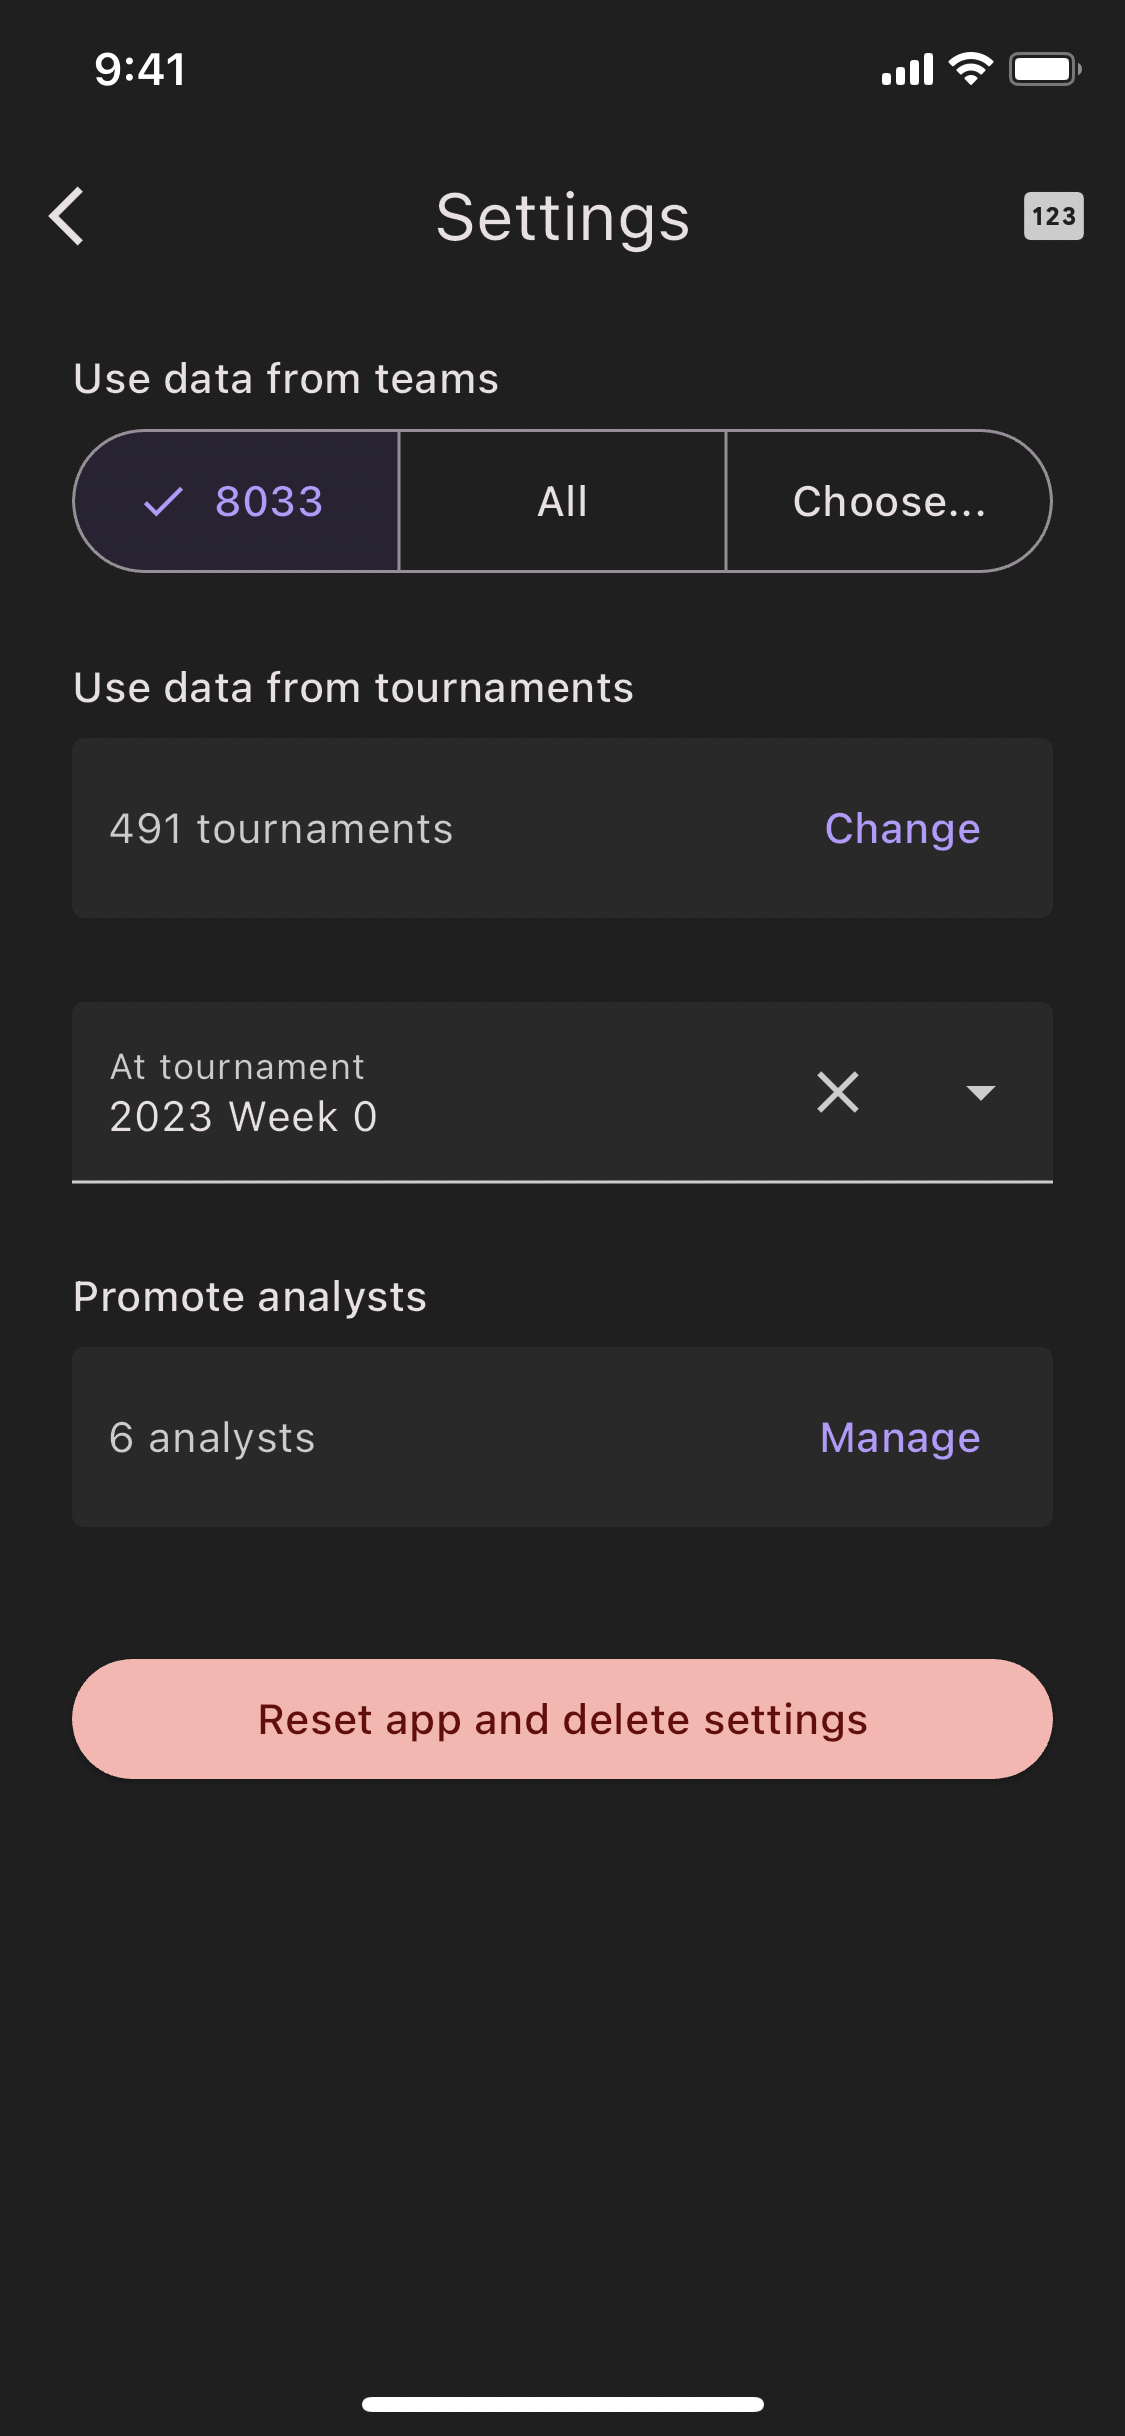
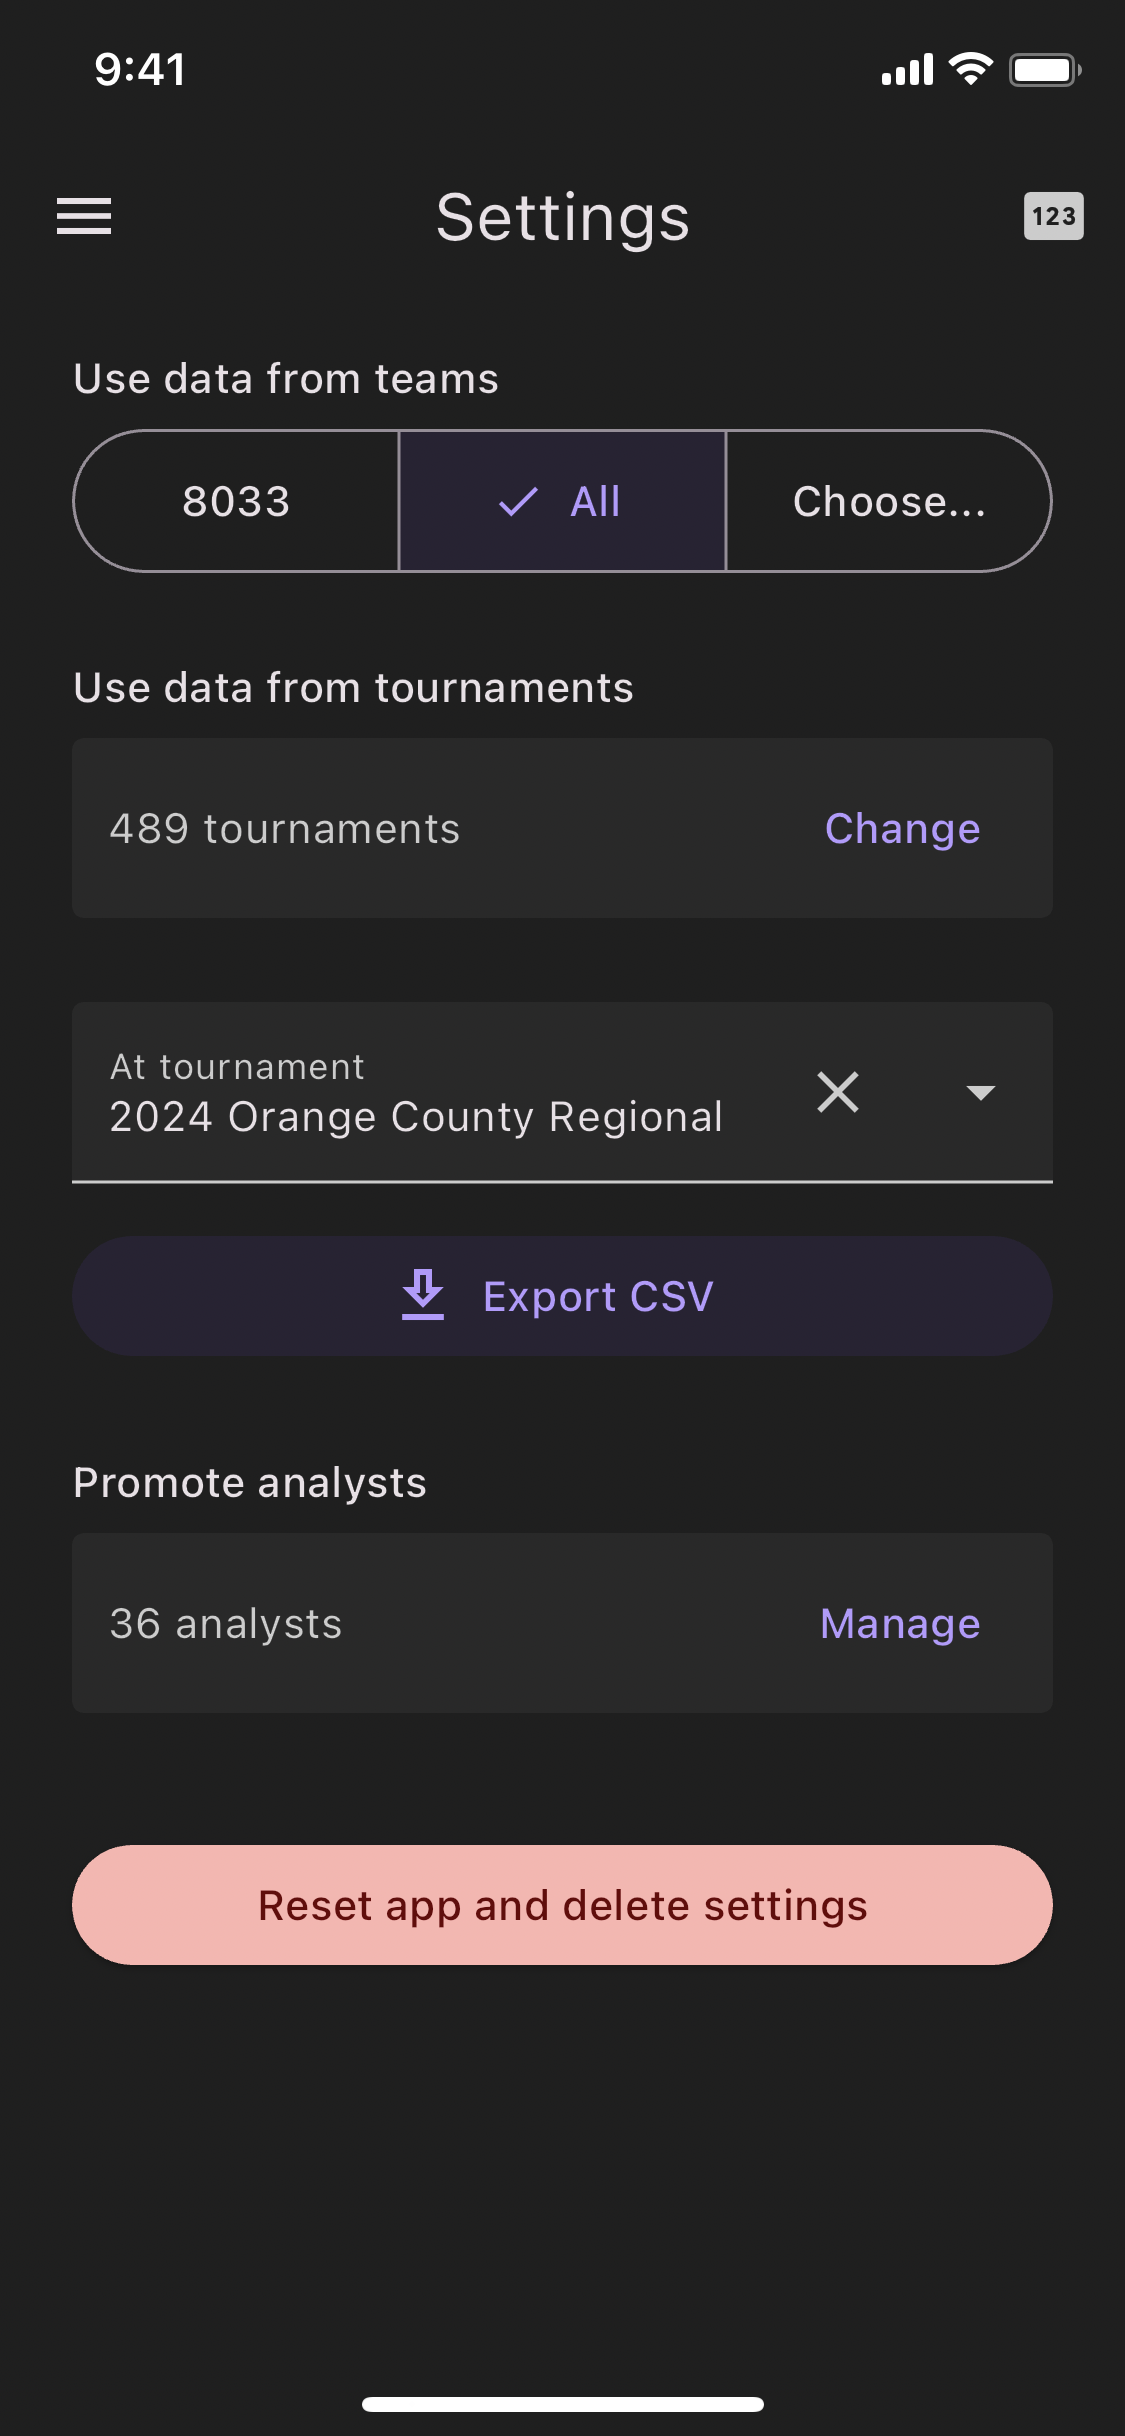
Add CSV export instructions

diff --git a/apps/website/src/routes/(with-nav)/scouting-lead/+page.svelte b/apps/website/src/routes/(with-nav)/scouting-lead/+page.svelte
@@ -122,6 +122,14 @@
 					to upgrade the people you are choosing before you do so.
 				</p>
 			</div>
+
+			<div class="phone-column-2">
+				<Phone
+					src="/assets/img/lead-settings-3.PNG"
+					alt="Screenshot displaying the scouter name portion of Lovat Collection's onboarding flow"
+				/>
+				<p>Finally, you can download a CSV of the data at a given tournament by tapping "Export CSV". Currently, it will give all the averages of the teams at the tournament you have selected. It uses data from all of the teams selected in the team source settings. Keep in mind that this button will only show up if you have a tournament choosen, and will only use the data from that tournament. More advanced data exporting will be coming soon!</p>
+			</div>
 		</div>
 	</div>
 </section>
@@ -347,7 +355,7 @@
 	}
 
 	.settings {
-		max-width: 600px;
+		max-width: 800px;
 		margin: 0 auto;
 	}
 
